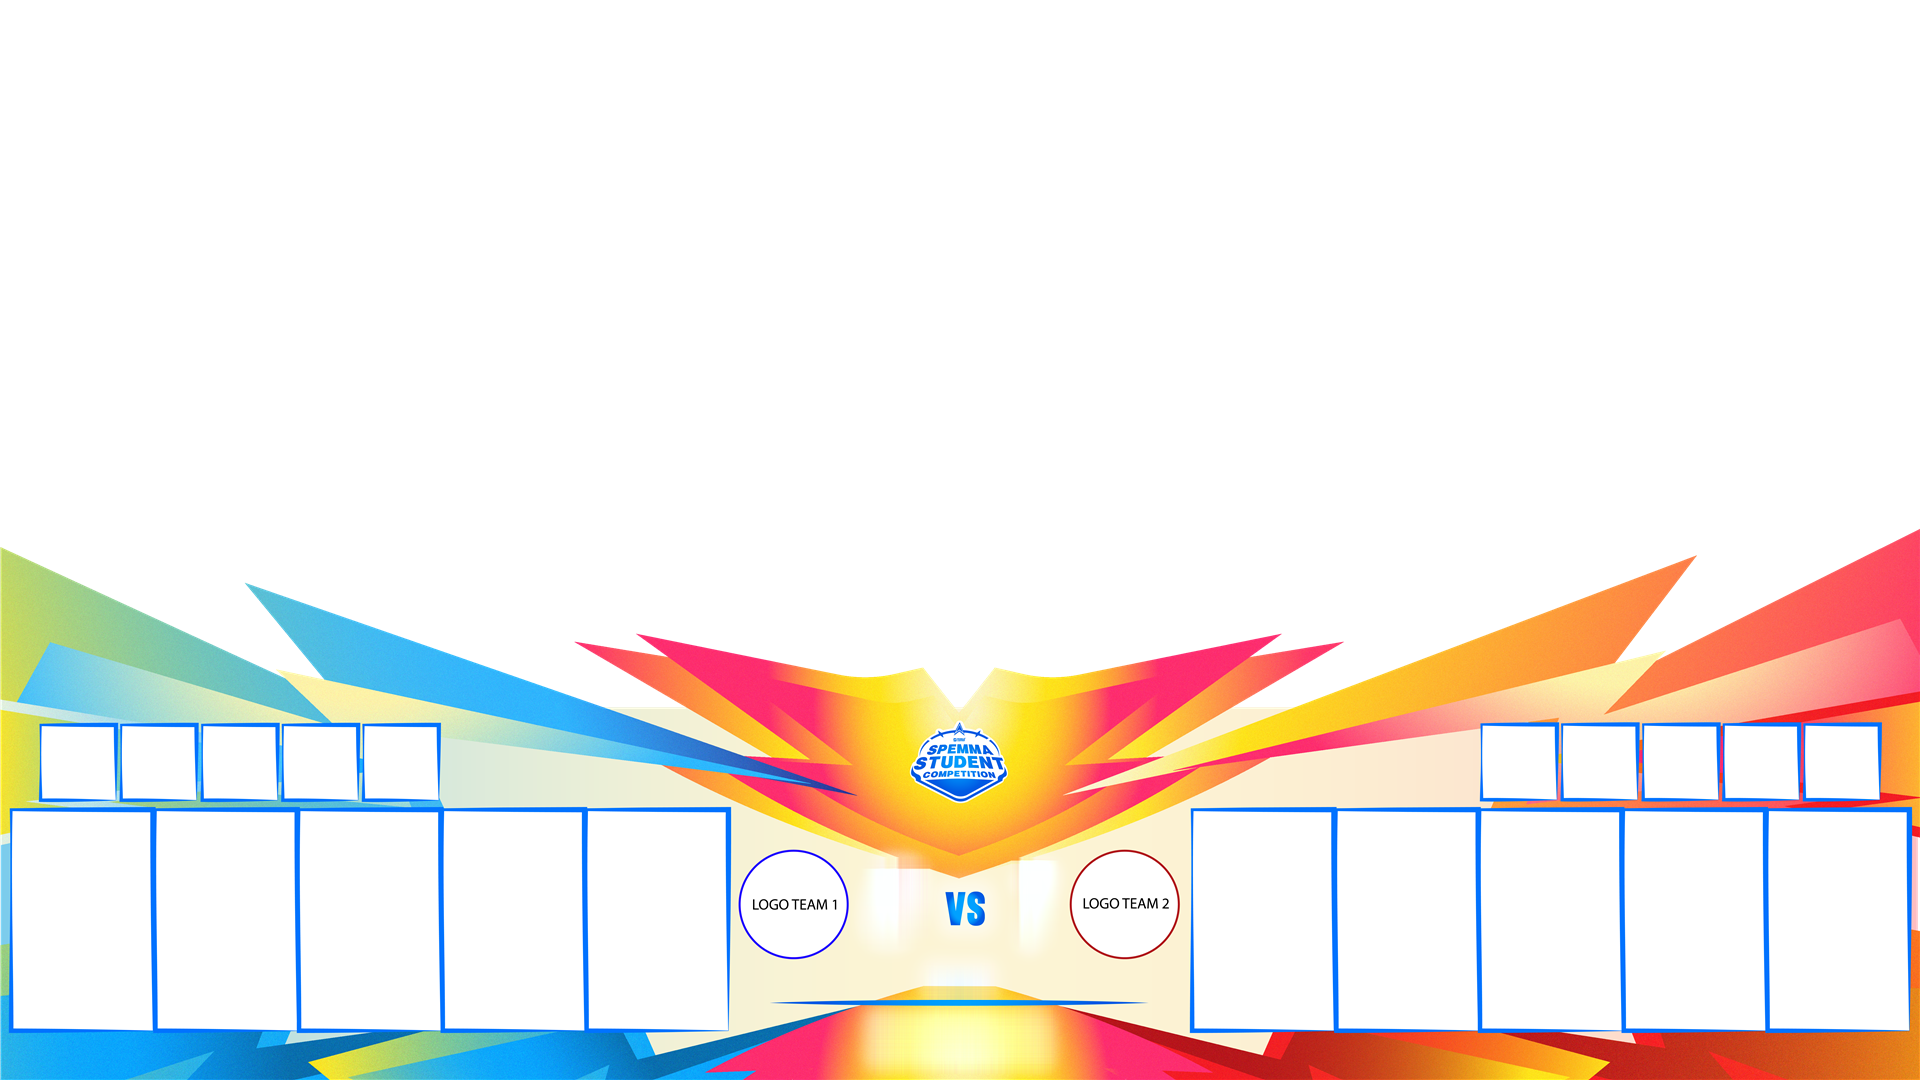
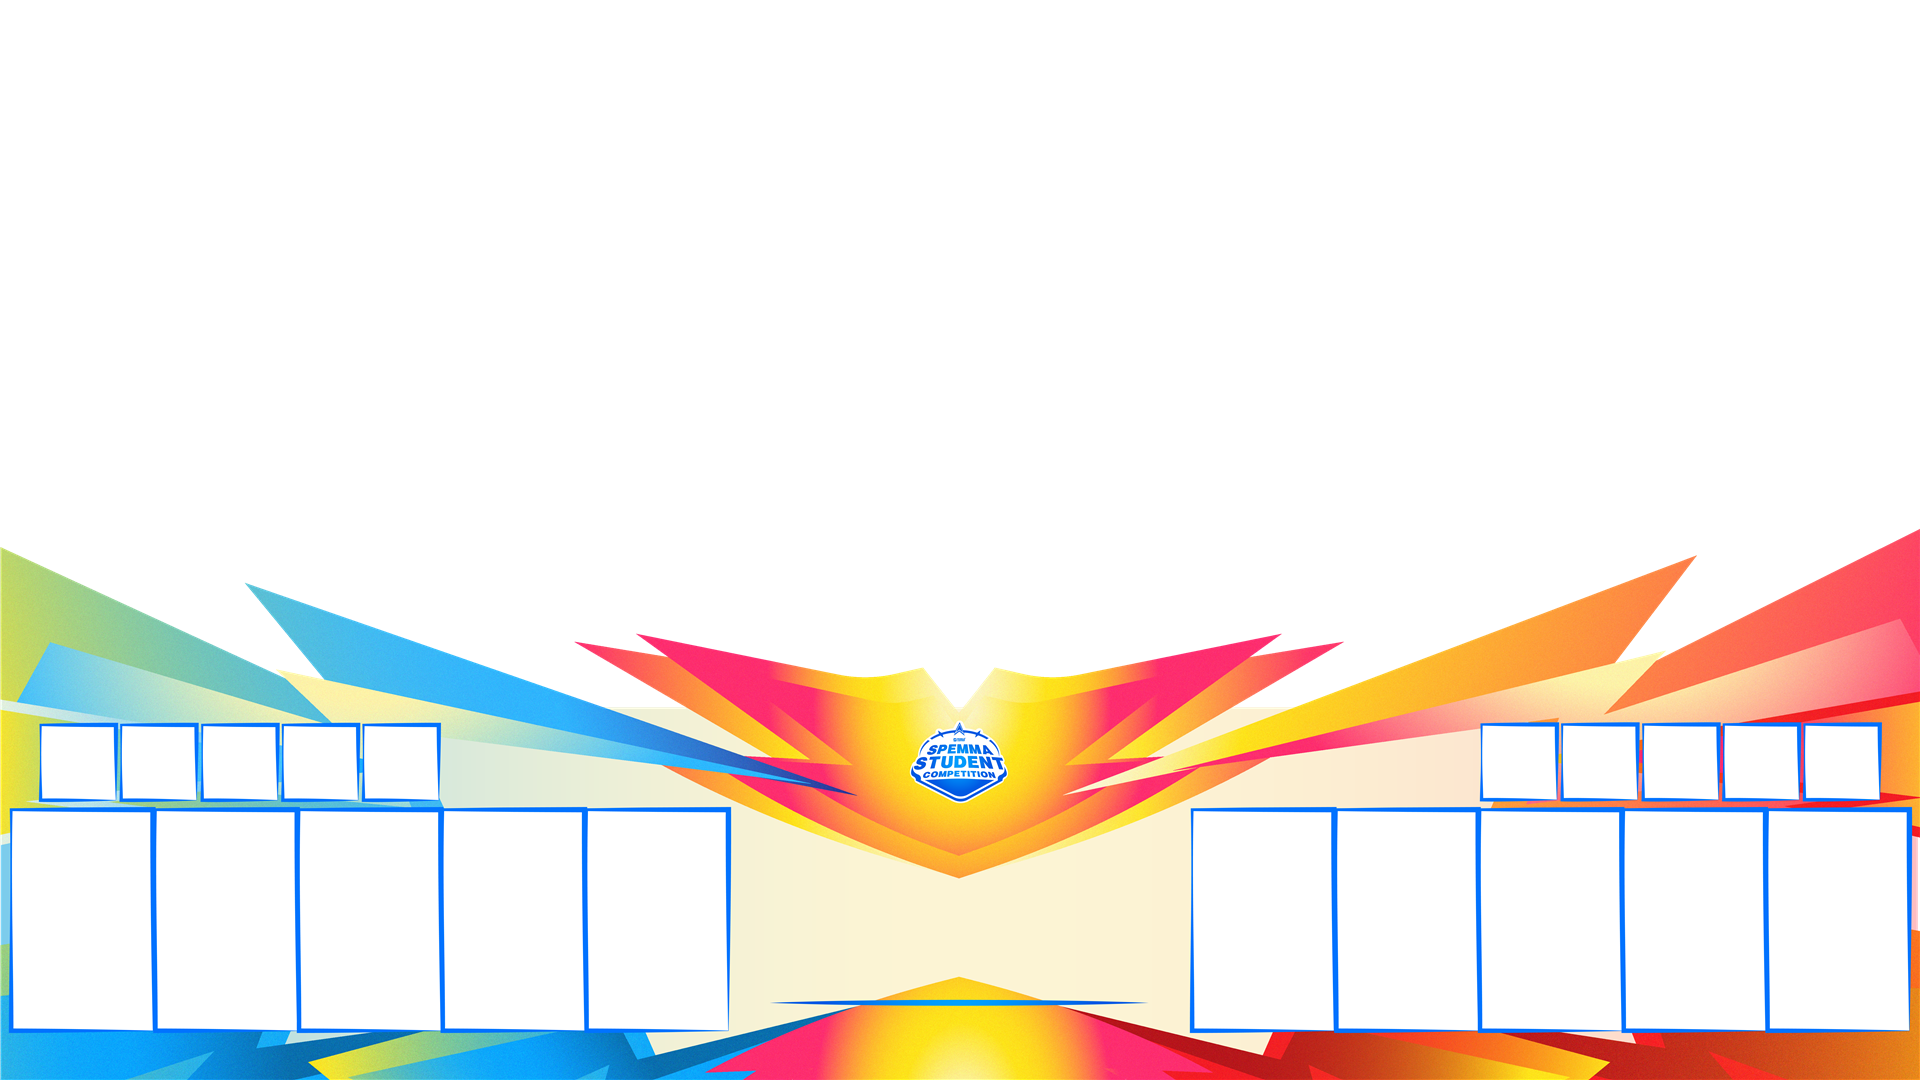
displayssc: clean background from the designer (no sample text), VS drawn as text

Changed region(s): [[0.375, 0.7639, 0.625, 0.8861], [0.4375, 0.8861, 0.5625, 1.0]]

diff --git a/public/displayssc.css b/public/displayssc.css
@@ -96,13 +96,26 @@ html, body { margin: 0; padding: 0; background: transparent; overflow: hidden; }
     animation: dsPop 0.5s cubic-bezier(0.3, 1.5, 0.5, 1) 1s both;
 }
 .ds-score > div:empty::before { content: '0'; }
-/* glow putih di belakang angka (seperti desain) sekaligus menutup bekas angka contoh di gambar latar */
+/* glow putih di belakang angka (seperti desain) */
 .ds-score::before { content: ''; position: absolute; left: -2px; right: -2px; top: 2px; bottom: -6px; z-index: -1; background: radial-gradient(closest-side, #fff 0%, rgba(255, 252, 240, 0.9) 55%, rgba(255, 250, 235, 0) 100%); }
 .ds-score.blue { left: 850px; }
 .ds-score.red { left: 990px; }
 /* skor angka seperti desain (draft-fx.js mengubah skor jadi titik kemenangan → dimatikan di halaman ini) */
 .ds-score .fx-pips { display: none; }
 .ds-score.fx-pips-on > [id^="name-box"] { visibility: visible; position: static; }
+
+.ds-vs {
+    position: absolute;
+    left: 926px; top: 880px;
+    width: 80px;
+    text-align: center;
+    font-family: 'Bangers', sans-serif;
+    font-size: 54px;
+    line-height: 1;
+    color: #0a6ff0;
+    text-shadow: 0 0 10px #fff, 0 0 18px rgba(255, 255, 255, 0.9), 2px 2px 0 #0640a8;
+    animation: dsPop 0.5s cubic-bezier(0.3, 1.5, 0.5, 1) 1.05s both;
+}
 
 .ds-timer {
     position: absolute;

diff --git a/public/displayssc.html b/public/displayssc.html
@@ -158,6 +158,7 @@
     <div class="ds-logo red"><img id="displayImage2" src="Assets/Other/nologo.png" alt=""></div>
     <div class="ds-score blue"><div id="name-box-2"></div></div>
     <div class="ds-score red"><div id="name-box-9"></div></div>
+    <div class="ds-vs">VS</div>
 
     <div class="ds-timer"><p>00:<span id="timer">0</span></p></div>
     <div class="ds-phase"><h2 id="phase"></h2></div>
